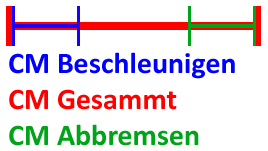
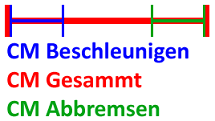
Dokumentation verbessert: ae/oe/ue ersetzt, (Rechtschreib-) Fehler etc. verbessert, Bildgroeßen verbessert / angepasst.

diff --git a/README.md b/README.md
@@ -1,12 +1,12 @@
 # **Blocksystem-OTTO-HAHN-ROBOTS** `v0.1`
 
 
-![Alle Bloecke](Dokumentation/README-Bilder/Alle_Bloecke.png)
+![Alle Blöcke](Dokumentation/README-Bilder/Alle_Bloecke.png)
 
 
-- [Einfuehrung](#einfuehrung)
+- [Einführung](#einführung)
     - [Installation](#installation)
-- [Bloecke](#bloecke)
+- [Blöcke](#blöcke)
     - [Start](#start)
     - [Fahren](#fahren)
     - [Drehen](#drehen)
@@ -18,84 +18,84 @@
     - [Linienverfolger](#linienverfolger)
 - [Beispielprogramme](#beispielprogramme)
 - [Roboterprofile](#roboterprofile)
-    - [Datensaetze](#datensaetze)
+    - [Datensätze](#datensätze)
 - [Auswahlprogramm](#auswahlprogramm)
 
 
-## Einfuehrung
-Dies ist das Blocksystem der OTTO-HAHN-ROBOTS zur Programmierung des EV3 Roboters fuer die First-Lego-League. Dieses Blocksystem fuegt weitere Bloecke zu EV3-Projekten hinzu, um die programmierung zu erleichtern, den Zeitaufwand zu minimieren, die Genauigkeit des Roboters zu verbessern und um komplizierte Programmelememente fuer alle einfach nutzbar zu machen. Dabei sind diese Bloecke nicht komplett "neu", sondern lediglich schon "vorprogrammierte" Programmelemente, die nun einfach genutzt werden koennen. In dieser Dokumentation ist alles Wichtige zu finden, was benoetigt wird um die Bloecke nutzen zu koennen. 
+## Einführung
+Dies ist das Blocksystem der OTTO-HAHN-ROBOTS zur Programmierung des EV3-Roboters für die First-Lego-League. Dieses Blocksystem fügt weitere (eigene) Blöcke zu EV3-Projekten hinzu, um die Programmierung zu erleichtern, den Zeitaufwand zu minimieren, die Genauigkeit des Roboters zu verbessern und um komplizierte Programmelememente für alle einfach nutzbar zu machen. Dabei sind diese Blöcke nicht komplett "neu", sondern lediglich schon "vorprogrammierte" Programmelemente, die nun einfach genutzt werden können. In dieser Dokumentation ist alles Wichtige zu finden, was benötigt wird um die Blöcke nutzen zu können. 
 
 
 ### Installation
-Um die Bloecke in seinem Projekt nutzen zu koennen, muessen diese zuerst importiert werden. Dazu sollte als erstes der aktuelle Release des Blocksystems auf der Release-Seite auf GitHub heruntergeladen und entpackt werden. Anschließend wechselt man wieder zurueck auf die EV3-Software und oeffnet den Tab "Projekteigenschaften". Dort wechselt man auf den Tab "Eigene Bloecke" und drueckt ganz unten auf "Importieren". Daraufhin oeffnet sich ein Datei-Browser mit welchen man in sein eben entpacktes Verzeichnis hineinnavigiert und die Datei "Blocksystem_vX.X.X" (anstelle der X wird dort die Nummer des aktuellen Releases stehen). Anschließen drueckt man auf oeffnen und die Bloecke sind im EV3-Projekt vorhanden.
+Um die Blöcke in seinem Projekt nutzen zu können, müssen diese zuerst importiert werden. Dazu sollte als erstes der aktuelle Release des Blocksystems auf der Release-Seite auf GitHub heruntergeladen und entpackt werden. Anschließend wechselt man wieder zurückck auf die EV3-Software und öffnet den Tab "Projekteigenschaften". Dort wechselt man auf den Tab "Eigene Blöcke" und drückt ganz unten auf "Importieren". Daraufhin öffnet sich ein Datei-Browser, mit welchen man in sein eben entpacktes Verzeichnis hineinnavigiert und die Datei "Blocksystem_vX.X.X" (anstelle der X wird dort die Nummer des aktuellen Releases stehen). Anschließend drückt man auf öffnen und die Blöcke sind im EV3-Projekt vorhanden.
 
 
-## Bloecke
-Im Nachfolgenden werden die einzelnen Bloecke des Blocksystems mit ihren Funktionen und ihrer Benutzung, bzw. ihren Parametern, vorgesetellt!
+## Blöcke
+Im Nachfolgenden werden die einzelnen Blöcke des Blocksystems mit ihren Funktionen und ihrer Benutzung, bzw. ihren Parametern, vorgesetellt!
 
 
 ### Start 
 ![Start](Dokumentation/README-Bilder/Block_Start.png)
 
-Dieser Block muss am Anfang jeden Programmes gesetzt werden, da hier alle Variablen, welche spaeter benoetigt werden, auf die entsprechenden Werte gesetzt werden. Dies geschieht aufgrund der angegebenen [Roboter id](#roboterprofile)! Außerdem besteht die Moeglichkeit Einzustellen, dass sich der Roboter durch langsames fahren gegen die Bande am Anfang ausrichtet, was sich positiv auf die Genauigkeit beim Starten auswirkt. Anschließend werden alle Motoren zueuckgesetzt.
+Dieser Block muss am Anfang jeden Programmes, in dem die Blöcke des Blocksystems genutzt werden, gesetzt werden, da hier alle Variablen, welche später benötigt werden, auf die entsprechenden Werte gesetzt werden. Dies geschieht aufgrund der angegebenen [Roboter id](#roboterprofile)! Außerdem besteht die Möglichkeit einzustellen, dass sich der Roboter durch langsames fahren gegen die Bande am Anfang ausrichtet, was sich positiv auf die Genauigkeit beim Starten auswirkt. Anschließend werden alle Motoren zurückgesetzt.
 
 | Parameter | Wert | Beschreibung |
 | - | - | - | 
-| Roboter id | [Roboter id](#roboterprofile) | Durch die Roboter id wird der entsprechende Datensatz fuer einen Roboter gewaehlt, dieser wird dann in allen Bloecken des Blocksystems genutzt. Dazu muss der Datensatz eines Roboters im Blocksystem vorhanden sein. Eine Uebersicht dazu gibt es [hier](#roboterprofile)!
-| Ausrichten | numerischer Wert (-1 - 1) | Um die Genauigkeit beim Starten zu erhoehen ist es empfehlenswert, dass der Roboter kurz vorwaerts/rueckwaerts gegen die Wand / den Starter faehrt, so ist sichergestellt, dass der Roboter komplett gerade steht. Mit `-1` faehrt der Roboter kurz rueckwaerts, mit `1` kurz vorwaerts. Bei `0` findet kein Ausrichten statt.
+| Roboter id | [Roboter id](#roboterprofile) | Durch die Roboter id wird der entsprechende Datensatz für einen Roboter gewählt, dieser wird dann in allen Blöcken des Blocksystems genutzt. Dazu muss der Datensatz eines Roboters im Blocksystem vorhanden sein. Eine Uebersicht dazu gibt es [hier](#roboterprofile)!
+| Ausrichten | numerischer Wert (-1 - 1) | Um die Genauigkeit beim Starten zu erhöhen ist es empfehlenswert, dass der Roboter kurz vorwärts/rückwärts gegen die Wand / den Starter fährt. So ist sichergestellt, dass der Roboter komplett gerade steht. Mit `-1` fährt der Roboter kurz rückwärts, mit `1` kurz vorwärts. Bei `0` findet kein Ausrichten statt.
 
 
 ### Fahren
 ![Fahren](Dokumentation/README-Bilder/Block_Fahren.png)
 
- Der Fahren-Block ist nur fuer einfachere, nicht so komplexe Fahrten (wie sie mit dem Block [GeschwindigkeitAendern](#geschwindigkeitaendern) moeglich sind) geeignet, da dieser Block durchgaengig nur in eine Richtung faehrt, und die Richtung nicht waehrend der Fahrt geaendert werden kann. Außerdem ist **dieser Block nicht dafuer ausgelegt auf der Stelle zu drehen**. Dennoch verfuegt der Fahren-Block ueber die Funktion langsam anzufahren und abzubremsen (_dies kann die Genauigkeit stark steigern_), wesshalb er fuer einfache Fahrten mit langsamen Anfahren/Abbremsen perfekt geeignet ist. _Sollten diese Funktion (langsam Anfahren/Abbremsen) nicht benoetigt werden wird emfohlen den Block [CmInUmdrehungen](#cminumdrehungen) in Kombination mit den Standard-EV3-Bloecken zu nutzen, da dies in diesem Falle zu einer besseren Praezision beitragen kann! _ **Auch dieser Block setzt die gefahren Umdrehungen nicht zurueck, die Distanz wird am inneren Motor der Kurve gemessen!**
+ Der Fahren-Block ist nur für einfachere, nicht so komplexe Fahrten (wie sie mit dem Block [GeschwindigkeitAendern](#geschwindigkeitaendern) möglich sind) geeignet, da dieser Block durchgängig nur in eine Richtung/gleichbleibender Kurvenradius fährt, und die Richtung nicht während der Fahrt geändert werden kann. Außerdem ist **dieser Block nicht dafür ausgelegt auf der Stelle zu drehen**. Dennoch verfügt der Fahren-Block über die Funktion langsam anzufahren und abzubremsen (_dies kann die Genauigkeit stark steigern_), wesshalb er für einfache Fahrten mit langsamen Anfahren/Abbremsen perfekt geeignet ist. _Sollten diese Funktion (langsam Anfahren/Abbremsen) nicht benötigt werden, ist es auch möglich den Block [CmInUmdrehungen](#cminumdrehungen) in Kombination mit den Standard-EV3-Blöcken zu nutzen, da dieser Block / diese Blöcke wesentlich einfacher aufgebaut sind!_ **Auch dieser Block setzt die gefahren Umdrehungen nicht zurück, die Distanz wird am inneren Motor der Kurve gemessen!**
 
  ![SkizzeDistanzen](Dokumentation/README-Bilder/Block_Fahren_SkizzeDistanzen.png)
 
 | Parameter | Wert | Beschreibung |
 | - | - | - |
-| Richtung | numerischer Wert (-30 - 30) | Mit diesem Parameter wird festgelegt ob der Roboter gerade `0` faehrt oder eine Kurve fahren soll. Gibt man hier einen negativen Wert an wird eine Linkskurve gefahren, d.h. der linke Motor dreht langsamer (egal ob der Roboter vorwaerts oder rueckwaerts faehrt), gibt man einen positiven Wert an genau andersrum. |
-| CM Beschleunigung | numerischer Wert (0 - ∞) | Hier wird die Distanz angegeben, die der Roboter brauchen soll, bis er die gewuenschte Geschwindigkeit erreicht hat. |
-| Geschwindigkeit | numerischer Wert (-100 - 100) | Mit diesem Wert wird angegeben wie schnell der Roboter Fahren soll. Bei negativen Werten faehrt der Roboter rueckwaerts, bei positiven vorwaerts. _Es ist sinnvoll diese Geschwindigkeit nicht auf das Maximum oder auf das Minimum, wo der Roboter gerade so faehrt, zu stellen, da diese Werte von Motor zu Motor stark variieren koennen, so dass der Roboter folglich sehr ungenau fahren kann._ |
-| CM Gesammt | numerischer Wert (0 -∞) | Dieser Parameter kontrolliert die Distanz, die waehrend des kompletten Fahren-Blocks, inklusive Beschleunigungs- und Abbrems-Distanz, zurueckgelegt werden soll. Daher muss dieser Parameter mindestens genauso groß sein wie Beschleunigungs- und Abbrems-Distanz zusammen. |
-| CM Abbremsen | numerischer Wert (0 - ∞) | Hier wird die Distanz angegeben, die der Roboter brauchen soll, von der Fahrtgeschwindigkeit bis zum Stehen abzubremsen |
+| Richtung | numerischer Wert (-30 - 30) | Mit diesem Parameter wird festgelegt ob der Roboter gerade (`0`) fährt oder eine Kurve fahren soll. Gibt man hier einen negativen Wert an wird eine Linkskurve gefahren, d.h. der linke Motor dreht langsamer (egal ob der Roboter vorwärts oder rückwärts fährt), gibt man einen positiven Wert an genau andersrum. |
+| CM Beschleunigung | numerischer Wert (0 - ∞) | Hier wird die Distanz angegeben, die der Roboter brauchen soll, bis er die gewünschte Geschwindigkeit erreicht hat. |
+| Geschwindigkeit | numerischer Wert (-100 - 100) | Mit diesem Wert wird angegeben wie schnell der Roboter Fahren soll. Bei negativen Werten fährt der Roboter rückwärts, bei positiven vorwärts. _Es ist sinnvoll diese Geschwindigkeit nicht auf das Maximum oder auf das Minimum, wo der Roboter gerade so fährt, zu stellen, da diese Werte von Motor zu Motor stark variieren können, so dass der Roboter folglich sehr ungenau fahren kann._ |
+| CM Gesammt | numerischer Wert (>0 -∞) | Dieser Parameter kontrolliert die Distanz, die während des kompletten Fahren-Blocks, inklusive Beschleunigungs- und Abbrems-Distanz, zurückgelegt werden soll. Daher muss dieser Parameter mindestens genauso groß sein wie Beschleunigungs- und Abbrems-Distanz zusammen. |
+| CM Abbremsen | numerischer Wert (0 - ∞) | Hier wird die Distanz angegeben, die der Roboter brauchen soll, von der Fahrgeschwindigkeit bis zum Stehen abzubremsen. |
 
 
 ### Drehen
 ![Drehen](Dokumentation/README-Bilder/Block_Drehen.png)
 
-Dieser Block ermoeglicht es, dass sich der Roboter entweder auf der Stelle mit beiden Motoren, oder nur mit einem der Motoren dreht. Dabei ist es auch moeglich, dass die Motoren langsam beschleunigen und auch langsam wieder abbremsen, *was die Genauigkeit erhoehen kann*. **ACUTUNG: Im gegensatz zu den meisten anderen Bloecken, setzt dieser Block die Motorumdrehungen am Anfang und am Ende zurueck!!!**
+Dieser Block ermöglicht es, dass sich der Roboter entweder auf der Stelle mit beiden Motoren, oder nur mit einem der Motoren dreht. Dabei ist es auch möglich, dass die Motoren langsam beschleunigen und auch langsam wieder abbremsen, *was die Genauigkeit erhöhen kann*. **ACHTUNG: Im Gegensatz zu den meisten anderen Blöcken, setzt dieser Block die Motorumdrehungen am Anfang und am Ende zurück!!!**
 
 ![SkizzeWinkel](Dokumentation/README-Bilder/Block_Drehen_SkizzeWinkel.png)
 
 | Parameter | Wert | Beschreibung |
 | - | - | - |
-| Linker Motor | numerischer Wert (-1 - 1) | Mit diesem Parameter wird eingestellt in welche Richtung der Roboter, bzw. der linke Motor drehen soll: Gibt man hier `-1` an, dreht der Linke Motor rueckwaerts, bei `1` vorwaerts und bei `0` bleibt er stehen |
+| Linker Motor | numerischer Wert (-1 - 1) | Mit diesem Parameter wird eingestellt in welche Richtung der Roboter, bzw. der linke Motor drehen soll: Gibt man hier `-1` an, dreht der Linke Motor rückwärts, bei `1` vorwärts und bei `0` bleibt er stehen. |
 | Rechter Motor | numerischer Wert (-1 - 1) | Mit diesem Parameter wird, wie auch schon beim Parameter zuvor, die Richtung bestimmt, in die der rechte Motor drehen soll. |
-| Grad Beschleunigen (Winkel) | numerischer Wert (0 - ∞) | Hier wird angegeben wie viel Grad der Roboter sich drehen soll bis er die gewuenschte Geschwindigkeit erreicht hat. Wird hier `0` angegeben startet der Roboter sofort mit der angegebenen Geschwindigkeit und beschleunigt nicht langsam. |
-| Geschwindigkeit | numerischer Wert (-100 - 100) | Durch diesen Parameter wird kontrolliert wie schnell der Roboter sich drehen soll. Wenn sich nur einer der Motoren dreht, dreht der Roboter dementsprechend halb so schnell, als wenn sich beide Motoren drehen. |
-| Grad Abbremsen (Winkel) | numerischer Wert (0 - ∞) | Wenn der Roboter langsam abbremsen soll, kann hier der Winkel angegeben werden, den es dauern soll bis der Roboter von der eingestellten Geschwindigkeit abgebremst hat. Wird hier `0` angegeben bremst der Roboter nicht langsam ab, sondern bleibt sofort stehen. |
-| Winkel Drehen | numerischer Wert (0 - ∞) | Hier wird angegeben um wie viel Grad sich der Roboter insgesamt drehen soll. |
+| Grad Beschleunigen (Winkel) | numerischer Wert (0 - ∞) | Hier wird angegeben wie viel Grad der Roboter sich drehen soll bis er die gewünschte Geschwindigkeit erreicht hat. Wird hier `0` angegeben startet der Roboter sofort mit der angegebenen Geschwindigkeit und beschleunigt nicht langsam. |
+| Geschwindigkeit | numerischer Wert (>0 - 100) | Durch diesen Parameter wird kontrolliert wie schnell der Roboter sich drehen soll. Wenn sich nur einer der Motoren dreht, dreht der Roboter dementsprechend halb so schnell, als wenn sich beide Motoren drehen. |
+| Grad Abbremsen (Winkel) | numerischer Wert (0 - ∞) | Wenn der Roboter langsam abbremsen soll, kann hier der Winkel angegeben werden, den es dauern soll bis der Roboter von der eingestellten Geschwindigkeit vollständig abgebremst hat. Wird hier `0` angegeben bremst der Roboter nicht langsam ab, sondern bleibt sofort stehen. |
+| Winkel Drehen | numerischer Wert (>0 - ∞) | Hier wird angegeben um wie viel Grad sich der Roboter insgesamt drehen soll. Dieser Winkel muss dabei mindest so groß sein wie der Winkel zur Beschleunigung und das Abbremsen zusammen. |
 
 
 ### ZurueckgelegteDistanz
 ![ZurueckgelgteDistanz](Dokumentation/README-Bilder/Block_ZurueckgelegteDistanz.png)
 
-Dieser Block gibt aehnlich wie der Standard-EV3-Block "Motorumdrehung" aus, wie weit sich ein Motor **seit dem letzten zuruecksetzten** gedreht hat, im gegensatz zum Standard-EV3-Block gibt dieser Block jedoch die zurueckgelegte Distanz in cm aus, was die Programmierung deutlich erleichtern kann. 
+Dieser Block gibt ähnlich wie der Standard-EV3-Block "Motorumdrehung" aus, wie weit sich ein Motor **seit dem letzten zurücksetzten** gedreht hat, im gegensatz zum Standard-EV3-Block gibt dieser Block jedoch die zurückgelegte Distanz in CM aus, was die Programmierung deutlich erleichtern kann. 
 
 | Parameter | Wert | Beschreibung |
 | - | - | - |
-| Motor | numerischer Wert (-1 / 1) | Wird hier `-1` angegben wird die zurueckgelegte Distanz am linken (B) Motor gemessen. Falls hier `1` angegeben wird am rechten (C) Motor. |
+| Motor | numerischer Wert (-1 / 1) | Wird hier `-1` angegben wird die zurückgelegte Distanz am linken (B) Motor gemessen. Falls hier `1` angegeben wird am rechten (C) Motor. |
 
 | Ausgabe | Wert | Beschreibung |
 | - | - | - |
-| Distanz in CM | numerischer Wert | Dieser Ausgabewert ist die zurueckgelgte Distanz in CM. Falls der Motor seit dem letzten Zuruecksetzen mehr rueckwaerts als vorwaerts gedreht wurde, ist dieser Wert negativ (falls der Motor umgekehrt eingebaut wurde, wird dies mit beruecksichtigt). Bei positiven Werten genau umgekehrt. | 
+| Distanz in CM | numerischer Wert | Dieser Ausgabewert ist die zurückgelgte Distanz in CM. Falls der Motor seit dem letzten Zurücksetzen mehr rückwärts als vorwärts gedreht wurde, ist dieser Wert negativ (falls der Motor umgekehrt eingebaut wurde, wird dies mit berücksichtigt). Bei positiven Werten genau umgekehrt. | 
 
 
 ### CmInUmdrehungen
 ![CmInUmdrehungen](Dokumentation/README-Bilder/Block_CmInUmdrehungen.png)
 
-Mit diesem Block ist es moeglich eine Distanz von Zentimeter in Umdrehungen fuer den benutzen Roboter zu errechnen. Dies geschieht aufgrund der [Roboter id](#roboterprofile), welche am Start des Programmes als Parameter des [Start-Block](#start) angegeben wird, bzw. aufgrund der hinterlegten Daten. So ist es mit hilfe von diesem Block moeglich auch mit Standard-EV3 Bloecken mit Cm-Angaben zu programmieren!
+Mit diesem Block ist es möglich eine Distanz von Zentimeter in Umdrehungen für den benutzen Roboter zu errechnen. Dies geschieht aufgrund der [Roboter id](#roboterprofile), welche am Start des Programmes als Parameter des [Start-Block](#start) angegeben wird, bzw. aufgrund der hinterlegten Daten. So ist es mithilfe von diesem Block möglich auch mit Standard-EV3 Blöcken mit Cm-Angaben zu programmieren!
 
 | Parameter | Wert | Beschreibung |
 | - | - | - |
@@ -103,78 +103,78 @@ Mit diesem Block ist es moeglich eine Distanz von Zentimeter in Umdrehungen fuer
 
 | Ausgabe | Wert | Beschreibung |
 | - | - | - |
-| Umdrehungen | numerischer Wert | Dieser Wert, der vom Block ausgegeben wird, ist die Anzahl der der Cm umgerechnet in Cm. |
+| Umdrehungen | numerischer Wert | Dieser Wert, der vom Block ausgegeben wird, ist die Anzahl der Umdrehungen, die aus der CM-Zahl errechnet wurde. |
 
 
 ### WartenAufDistanz
 ![WartenAufDistanz](Dokumentation/README-Bilder/Block_WartenAufDistanz.png)
 
-Im Gegensatz zum Block [ZurueckgelgteDistanz](#zurueckgelegtedistanz), der nur die zureuckgelgte Distanz ausgibt, wartet dieser Block darauf das eine gewisse Distanz erreicht wird und haelt das Programm so lange auf. Auch bei diesem Block wird die bis zum Start des Blockes zurueckgelgte **Distanz nicht zurueckgesetzt**, es gibt dennoch zwei verschiedene Modi. Bei einem der Modi wird die Distanz von Beginn des Blockes gemessen (simuliert das die Distanz am Anfang des Blockes zurueckgesetz wird, wird sie jedoch in echt nicht), beim zweiten Modi wird die insgesammte Distanz, also seit dem letzten zuruecksetzen breuecksichtigt. _Mit Nutzung des zuletzt erklaerten Modus, kann die Genauigkeit erheblich gesteigert werden!_
+Im Gegensatz zum Block [ZurueckgelgteDistanz](#zurueckgelegtedistanz), der nur die zureuckgelgte Distanz ausgibt, wartet dieser Block darauf das eine gewisse Distanz erreicht wird und hält das Programm so lange auf. Auch bei diesem Block wird die bis zum Start des Blockes zurückgelgte **Distanz nicht zurückgesetzt**, es gibt dennoch zwei verschiedene Modi. Bei einem der Modi wird die Distanz von Beginn des Blockes gemessen (simuliert das die Distanz am Anfang des Blockes zurückgesetz wird, wird sie jedoch in echt nicht), beim zweiten Modi wird die insgesammte Distanz, also seit dem letzten zurücksetzen berücksichtigt. _Mit Nutzung des zuletzt erklärten Modus, kann die Genauigkeit gesteigert werden, da so verherige ungenauigkeiten evtl. korrigiert werden können und sich die Fehler soo nicht immer weiter auf addieren!_
 
 | Parameter | Wert | Beschreibung |
 | - | - | - |
-| Motor | numerischer Wert (-1 / 1) | Wird hier `-1` angegben wird die zurueckgelegte Distanz am linken (B) Motor gemessen. Falls hier `1` angegeben wird am rechten (C) Motor. |
+| Motor | numerischer Wert (-1 / 1) | Wird hier `-1` angegben wird die zurückgelegte Distanz am linken (B) Motor gemessen. Falls hier `1` angegeben wird am rechten (C) Motor. |
 | Distanz in CM | numerischer Wert | Hier wir die Distanz (in CM) angegeben auf die der Block warten soll. Dabei kann die Zahl positiv oder negativ angegeben werden, jenachdem ob auf negative oder positive werde gewartet werden soll. |
-| Von Beginn des Blocks | logischer Wert | Hier kann ausgewaehlt werden ab welchem der Punkt gemessen werden soll. Steht dieser Wert auf `Falsch` wird die Distanz seit dem letzen zuruecksetzen der Motorumdrehungen beruecksichtigt. Steht dieser Wert auf `Wahr` wird erst ab Beginn des Blocks gemessen, die Motorenumdrehungen werden aber **nicht zurueckgesetzt**. |
+| Von Beginn des Blocks | logischer Wert | Hier kann ausgewählt werden ab welchem der Punkt gemessen werden soll. Steht dieser Wert auf `Falsch` wird die Distanz seit dem letzen zurücksetzen der Motorumdrehungen berücksichtigt. Steht dieser Wert auf `Wahr` wird erst ab Beginn des Blocks gemessen, die Motorenumdrehungen werden aber **nicht zurückgesetzt**. |
 
 
 ### GeschwindigkeitAendern
 ![GeschwindigkeitAendern](Dokumentation/README-Bilder/Block_GeschwindigkeitAendern.png)
 
-Mit diesem Block ist es moeglich die Geschwindigkeiten der beiden Motoren (B und C) langsam zu veraendern. Dabei koennen die Motoren auch unterschiedlich schnell laufen, jedoch **nicht so, dass ein Motor vorwaerts dreht und der andere ruckwaerts** (so wuerde sich der Roboter auf der Stelle drehen). **Außerdem kann die Geschwindigkeit im Laufe der Beschleunigung nicht von einem positiven wert auf einen negativen Wert geaendert werden.** _Des Weiteren ist es Empfehlenswert die Geschwindigkeiten so hoch oder so niedrig zu waehlen das die Differenzen der unterschiedlichen Motoren bei sehr niedriger oder sehr hoher Geschwindigkeit einen nicht so großen Einfluss auf die Genauigkeit des Roboters haben._ Durch ein langsames aendern der Geschwindigkeit steigt die Genauigkeit!
+Mit diesem Block ist es möglich die Geschwindigkeiten der beiden Motoren (B und C) langsam zu verändern. Dabei können die Motoren auch unterschiedlich schnell laufen, jedoch **nicht so, dass ein Motor vorwärts dreht und der andere ruckwärts** (so würde sich der Roboter auf der Stelle drehen). **Außerdem kann die Geschwindigkeit im Laufe der Beschleunigung nicht von einem positiven wert auf einen negativen Wert geändert werden.** _Des Weiteren ist es Empfehlenswert die Geschwindigkeiten so hoch oder so niedrig zu wählen das die beiden Motoren starke abweichungen abweisen, was bei sehr geringen oder hohen Geschwindigkeiten der Fall ist._ Durch ein langsames ändern der Geschwindigkeit steigt die Genauigkeit!
 
 | Parameter | Wert | Beschreibung |
 | - | - | - |
-| Aktuelle Geschwindigkeit L | numerischer Wert (-100 - 100) | Hier wird die aktuelle Geschwindigkeit, bzw. die Geschwindigkeit, ab der die Beschleunigung beginnen soll fuer den linken (B) Motor angegeben. **ACHTUNG: Der Wert muss so hoch sein, dass der Roboter sich vorwaerts bewegt (also auf keinen Fall `0`).** 
-| Aktuelle Geschwindigkeit R | numerischer Wert (-100 - 100) | Der gleiche Parameter wie der zuvor erklaerte Parameter `Aktuelle Geschwindigkeit L`, nur fuer den rechten (C) Motor.
-| CM | numerischer Wert (0 - ∞) | Dieser Parameter ist fuer die Strecke, die fuer die Beschleunigung / das Abbremsen gebraucht wird verantwortlich. Gemessen wird die Distanz vom Start des Blockes / der Geschwindigkeitsveraenderung bis zum Ende des Blockes / der Geschwindigkeitsveraenderung am Motor welcher in dieser Zeit weniger Strecke zuruecklegt (der Motor, der bei einer Kurve innen ist). **Die Motorumdrehungen werden dabei nicht zurueckgesetzt.**
-| Neue Geschwindigkeit L | numerischer Wert (-100 - 100) | Hier wird die Geschwindigkeit angegeben, die nach der Beschleunigen / dem Abbremsen, nach der zuvor angegebenen Distanz mit dem linken (B) Motor erreicht sein soll. **ACHTUNG: Auch hier muss der Wert so hoch sein, dass der Roboter sich noch immer vorwaerts bewegt (also auf keinen Fall `0`).** 
-| Neue Geschwindigkeit R | numerischer Wert (-100 -100) | Der gleiche Parameter wie der zuvor erklaerte Parameter `Neue Geschwindigkeit L`, nur fuer den rechten (C) Motor.
+| Aktuelle Geschwindigkeit L | numerischer Wert (-100 - 100) | Hier wird die aktuelle Geschwindigkeit, bzw. die Geschwindigkeit, ab der die Beschleunigung beginnen soll für den linken (B) Motor angegeben. **ACHTUNG: Der Wert muss so hoch sein, dass der Roboter sich vorwärts bewegt (also auf keinen Fall `0`).** 
+| Aktuelle Geschwindigkeit R | numerischer Wert (-100 - 100) | Der gleiche Parameter wie der zuvor erklärte Parameter Aktuelle Geschwindigkeit L, nur für den rechten (C) Motor.
+| CM | numerischer Wert (>0 - ∞) | Dieser Parameter ist für die Strecke, die für die Beschleunigung / das Abbremsen gebraucht wird verantwortlich. Gemessen wird die Distanz vom Start des Blockes / der Geschwindigkeitsveränderung bis zum Ende des Blockes / der Geschwindigkeitsveränderung am Motor, welcher in dieser Zeit weniger Strecke zurücklegt (der Motor, der bei einer Kurve innen ist). **Die Motorumdrehungen werden dabei nicht zurückgesetzt.**
+| Neue Geschwindigkeit L | numerischer Wert (-100 - 100) | Hier wird die Geschwindigkeit angegeben, die nach der Beschleunigen / dem Abbremsen, nach der zuvor angegebenen Distanz mit dem linken (B) Motor erreicht sein soll. **ACHTUNG: Auch hier muss der Wert so hoch sein, dass der Roboter sich noch immer vorwärts bewegt (also auf keinen Fall `0`).** 
+| Neue Geschwindigkeit R | numerischer Wert (-100 -100) | Der gleiche Parameter wie der zuvor erklärte Parameter Neue Geschwindigkeit L, nur für den rechten (C) Motor.
 
 
 ### AusrichtenLinie
-_Noch nicht hinzugefuegt!_
+_Noch nicht hinzugefügt!_
 
 
 ### Linienverfolger
-_Noch nicht hinzugefuegt!_
+_Noch nicht hinzugefügt!_
 
 
 ## Beispielprogramme
-_Beispielprogramme_
+_Beispielprogramme noch nicht hinzugefügt!_
 
 
 ## Roboterprofile
 | Roboter id | Roboter / Nutzen | Status |
 | - | - | - |
 | 0 | Rot-Schwarzer-Roboter (Gustav) | Noch nicht erstellt |
-| 99 | Nur zum Entwickeln und Testen der Bloecke, **nicht Nutzen!** |  |
+| 99 | Nur zum Entwickeln und Testen der Blöcke, **nicht Nutzen!** | - |
 
 
-### Datensaetze
-Damit das Blocksystem mit moeglichst allen Robotern funktioniert ist das komplette System variabel programmiert, so muessen nur bestimmte Variablen angepasst werden und das Blocksystem funktioniert auch mit diesem Roboter. Hinter jedem Roboter, welcher zunaechst ueber den "Roboter id"-Parameter des Start Blockes ausgewaehlt wird, steckt ein Datensatz welcher bestimmte Eigenschaften, bzw. Parameter fuer diesen Roboter festlegt. Soll ein neuer Roboter in das Blocksystem eingepflegt werden, muessen zunaechst alle untenstehenden Parameter festgelegt werden und diese dann unter einer neunen Roboter id in den Start Block des Blocksystem eingefuegt werden.
+### Datensätze
+Damit das Blocksystem mit möglichst allen Robotern funktioniert ist das komplette System variabel programmiert, so müssen nur bestimmte Variablen angepasst werden und das Blocksystem funktioniert mit jedem Roboter. Hinter jedem Roboter, welcher zunächst über den "Roboter id"-Parameter des Start Blockes ausgewählt wird, steckt ein Datensatz welcher bestimmte Eigenschaften, bzw. Parameter für diesen Roboter festlegt. Soll ein neuer Roboter in das Blocksystem eingepflegt werden, müssen zunächst alle untenstehenden Parameter festgelegt werden und diese dann unter einer neuen Roboter id in den Start Block des Blocksystem eingefügt werden.
 
 | Variable | Wert | Beschreibung |
 | - | - | - |
-| Alle_MotorenrichtungUmgekehrt | logischer Wert | Falls die Motoren umgekehrt eingebaut wurden, d.h. der Roboter rueckwaerts faehrt wenn die Motoren vorwaerts drehen, muss dieser Wert auf `Wahr` gesetzt werden |
-| Start_AusrichtenGeschwindigkeit | numerischer Wert (0 - 100) | Falls beim Start Block Ausrichten ausgewaehlt wird, fahrt der Roboter langsam vorwaerts, bzw. rueckwaerts um sich an der Wand auszurichten, so dass die Genauigkeit besser ist. Genau diese Geschwindigkeit wird durch diese Variable definiert
-| Start_AusrichtenSekunden | numerischer Wert (0 - ∞) | Falls das Ausrichten beim Start Block, wie zuvor erklaert, ausgewaehlt wird, findet das Ausrichten fuer eine gewisse Anzahl von Sekunden statt, diese Dauer wird hier definiert |
-| Start_AusrichtenSekundenWarten | numerischer Wert (0 - ∞) | Nach dem zuvor erklaerten Ausrichten wartet der Roboter eine gewisse Dauer damit die Motoren nicht direkt in die andere Richtung drehen (dies traegt zur Genauigkeit bei). Diese Dauer wird mit dieser Variable definiert |
-| ZurueckgelgteDistanz_CmInGrad | numerischer Wert (0 - ∞) | Da das Blocksystem wegen der intuitiveren Benutzung mit Distanzen in CM arbeitet wird hier definiert, wie viel Grad ein Motor drehen muss, damit der Roboter einen Zentimeter zurueckgelegt hat|
-|Fahren_StartGeschwindigkeit | numerischer Wert (0 - 100) | Wenn der Roboter mithilfe des Blocks [Fahren](#fahren) langsam anfahren soll, beginnen sich die Motoren anfangs mit dem hier angegeben Wert. Daher sollte dieser Wert so groß gewaehlt werden, dass beide Motoren sich zuverlaessig und gleichmaeßig drehen, aber auch nicht zu schnell, damit der Roboter noch moeglichst lange Beschleunigen kann |
-| Fahren_AbbremsenProzentEndgeschwindigkeit | numerischer Wert (0 - 100) | Wenn der Roboter mithilfe des Fahren-Blocks am Ende langsam abbremst wird das letzte Stueck, nachdem der Roboter langsam abgebremst hat, konstant mit einer langsamen Geschwindigkeit absolviert bis die gewuenschte Distanz entgueltig erreicht wird. Dies traegt zur Genauigkeit bei, ohne dieses langsame Fahren am Ende ist ein genaues Stoppen gar nicht moeglich! Mit diesem Parameter wird festgelgt wie viel Prozent der Strecke der Abbrems-Distanz dafuer verwendet wird, mit der Endgeschwindigkeit zu fahren.|
-| Fahren_AbbremsenMaxDistanz Endgeschwindigkeit | numerischer Wert (0 - ∞) | Mit diesem Parameter wird kontrolliert was die maximale Distanz ist, die mit der zuvor erlaeutertern Endgeschwindigkeit gefahren wird. Sollte die prozentual errechnete Strecke, welche mit dem zuvor erklaerten Parameter errechnet wird, groeßer sein als die hier angegebene Strecke, wird die prozentual errechnete Strecke nicht beachtet und die hier angegebene Strecke wird genutzt. |
-| Fahren_EndGeschwindigkeit | numerischer Wert (0 - 100) | Mit diesem Parameter wird die End-Geschwindigkeit gesteuert, di am Ende des Abbremsens genutzt wird (wie in den beiden Parameter zuvor erklaert). Diese Geschwindigkeit sollte daher moeglichst gering gewaehlt werden, damit der Roboter moeglichst praezise anhalten kann. Sie sollte aber keinesfalls so niedrig gewaehlt werden, dass die Motoren sehr ungenau oder ungleichmaeßig drehen. |
-| Drehen_StartGeschwindigkeit | numerischer Wert (0 - 100) | Mit diesem Parameter wird eingestellt mit welcher Geschwindigkeit der Roboter beim [Drehen Block](#drehen) anfahren soll. Der Wert sollte so gering wie moeglich gewaehlt werden, damit das Anfahren moeglichst genau ist, aber auch nicht so gering, dass die Motoren sehr ungenau oder ungleichmaeßig drehen. |
-| Drehen_GradFuer360Drehung | numerischer Wert (0 - ∞) | Hier wird angegeben wie viel Grad sich ein Motor drehen muss bis sich der Roboter um 360 Grad gedreht hat, wenn sich beide Motoren gleichzeitig drehen. |
-| Drehen_AbbremsenProzentEndgeschwindigkeit | numerischer Wert (0 - 100) | Mit diesem Wert wird eingestellt wie viel Prozent der Strecke des Abbremsens mit der eingestellten Endgeschwindigkeit zurueckgelegt werden soll. |
-| Drehen_MaxWinkelEndgeschwindigkeit | numerischer Wert (0 - ∞) | Hier wird angegeben wie viel Grad (Winkel) maximal mit der Endgeschwindigkeit zurueckgelegt werden sollen. Ist der Winkel, der durch den zuvor angegebenen Prozentsatz errechnet wird groeßer als dieser Wert, wird dieser Wert genutzt. |
-| Drehen_Endgeschwindigkeit | numerischer Wert (0 - 100) | Mit diesem Parameter wird eingestellt mit welcher Geschwindigkeit der Motor/die Motoren am Ende des Abbremsens drehen, bis der richtige Winkel erreicht ist. |
-| Drehen_SchwelleMotorKorrektion | numerischer Wert (0 - ∞) | Drehen beim Drehen Block beide Motoren wird nur an einem der Motoren aktiv gemessen und der andere Motor laeuft jeweils mit derselben Geschwindigkeit (in die andere Richtung) einfach mit. Da die Motoren jedoch leicht unterschiedlich drehen koennen kann es so zu Ungenauigkeiten kommen. Um diesem entgegenzuwirken werden auch die Motorumdrehungen des anderen Motors gemessen und mit denen des anderen Motors verglichen. Sollten die Motorenstaende um eine gewisse Gradzahl, die mit diesem Parameter eingestellt wird, unterschiedlich sein wird gegengesteuert. |
-| Drehen_GeschwindigkeitMotorKorrektion | numerischer Wert (0 - 100) | Sollte die in dem zuvor erlaeuterte Schwelle ueberschritten werden wird der entsprechende Motor um eine gewisse Geschwindigkeit verschnellert oder verlangsamt. Diese Geschwindigkeit kann hier eingestellt werden. |
+| Alle_MotorenrichtungUmgekehrt | logischer Wert | Falls die Motoren umgekehrt eingebaut wurden, d.h. der Roboter rückwärts fährt wenn die Motoren vorwärts drehen, muss dieser Wert auf `Wahr` gesetzt werden. |
+| [Start](#start)_AusrichtenGeschwindigkeit | numerischer Wert (>0 - 100) | Falls beim Start Block Ausrichten ausgewählt wird, fährt der Roboter langsam vorwärts, bzw. rückwärts um sich an der Wand auszurichten, so dass die Genauigkeit besser ist. Genau diese Geschwindigkeit wird durch diese Variable definiert. |
+| [Start](#start)_AusrichtenSekunden | numerischer Wert (>0 - ∞) | Falls das Ausrichten beim Start Block, wie zuvor erklärt, ausgewählt wird, findet das Ausrichten für eine gewisse Anzahl von Sekunden statt, diese Dauer wird hier definiert. |
+| [Start](#start)_AusrichtenSekundenWarten | numerischer Wert (0 - ∞) | Nach dem zuvor erklärten Ausrichten wartet der Roboter eine gewisse Dauer damit die Motoren nicht direkt in die andere Richtung drehen (dies trägt zur Genauigkeit bei). Diese Dauer wird mit dieser Variable definiert. |
+| [ZurueckgelegteDistanz](#zurueckgelegtedistanz)_CmInGrad | numerischer Wert (>0 - ∞) | Da das Blocksystem wegen der intuitiveren Benutzung mit Distanzen in CM arbeitet wird hier definiert, wie viel Grad ein Motor drehen muss, damit der Roboter einen Zentimeter zurückgelegt hat. |
+| [Fahren](#fahren)_StartGeschwindigkeit | numerischer Wert (>0 - 100) | Wenn der Roboter mithilfe des Blocks [Fahren](#fahren) langsam anfahren soll, beginnen sich die Motoren anfangs mit dem hier angegeben Wert. Daher sollte dieser Wert so groß gewählt werden, dass beide Motoren sich zuverlässig und gleichmäßig drehen, aber auch nicht zu schnell, damit der Roboter noch möglichst lange beschleunigen kann. |
+| [Fahren](#fahren)_AbbremsenProzentEndgeschwindigkeit | numerischer Wert (0 - 100) | Wenn der Roboter mithilfe des Fahren-Blocks am Ende langsam abbremst wird das letzte Stück, nachdem der Roboter langsam abgebremst hat, konstant mit einer langsamen Geschwindigkeit absolviert bis die gewünschte Distanz entgültig erreicht wird. Dies trägt zur Genauigkeit bei, ohne dieses langsame Fahren am Ende ist ein genaues Stoppen gar nicht möglich! Mit diesem Parameter wird festgelgt wie viel Prozent der Strecke der Abbrems-Distanz dafür verwendet wird, mit der Endgeschwindigkeit zu fahren.|
+| [Fahren](#fahren)_AbbremsenMaxDistanz Endgeschwindigkeit | numerischer Wert (0 - ∞) | Mit diesem Parameter wird kontrolliert, was die maximale Distanz ist, die mit der zuvor erläutertern Endgeschwindigkeit gefahren wird. Sollte die prozentual errechnete Strecke, welche mit dem zuvor erklärten Parameter errechnet wird, größer sein als die hier angegebene Strecke, wird die prozentual errechnete Strecke nicht beachtet und die hier angegebene Strecke wird genutzt. |
+| [Fahren](#fahren)_EndGeschwindigkeit | numerischer Wert (>0 - 100) | Mit diesem Parameter wird die End-Geschwindigkeit gesteuert, die am Ende des Abbremsens genutzt wird (wie in den beiden Parameter zuvor erklärt). Diese Geschwindigkeit sollte daher möglichst gering gewählt werden, damit der Roboter möglichst präzise anhalten kann. Sie sollte aber keinesfalls so niedrig gewählt werden, dass die Motoren sehr ungenau oder ungleichmäßig drehen. |
+| [Drehen](#drehen)_StartGeschwindigkeit | numerischer Wert (>0 - 100) | Mit diesem Parameter wird eingestellt mit welcher Geschwindigkeit der Roboter beim [Drehen Block](#drehen) anfahren soll. Der Wert sollte so gering wie möglich gewählt werden, damit das Anfahren möglichst genau ist, aber auch nicht so gering, dass die Motoren sehr ungenau oder ungleichmäßig drehen. |
+| [Drehen](#drehen)_GradFür360Drehung | numerischer Wert (>0 - ∞) | Hier wird angegeben wie viel Grad sich ein Motor drehen muss, bis sich der Roboter um 360 Grad gedreht hat, wenn sich beide Motoren gleichzeitig drehen. |
+| [Drehen](#drehen)_AbbremsenProzentEndgeschwindigkeit | numerischer Wert (0 - 100) | Mit diesem Wert wird eingestellt wie viel Prozent der Strecke des Abbremsens mit der eingestellten Endgeschwindigkeit zurückgelegt werden soll. |
+| [Drehen](#drehen)_MaxWinkelEndgeschwindigkeit | numerischer Wert (0 - ∞) | Hier wird angegeben wie viel Grad (Winkel) maximal mit der Endgeschwindigkeit zurückgelegt werden sollen. Ist der Winkel, der durch den zuvor angegebenen Prozentsatz errechnet wird größer als dieser Wert, wird dieser Wert genutzt. |
+| [Drehen](#drehen)_Endgeschwindigkeit | numerischer Wert (>0 - 100) | Mit diesem Parameter wird eingestellt mit welcher Geschwindigkeit der Motor/die Motoren am Ende des Abbremsens drehen, bis der richtige Winkel erreicht ist. |
+| [Drehen](#drehen)_SchwelleMotorKorrektion | numerischer Wert (>0 - ∞) | Drehen beim Drehen Block beide Motoren wird nur an einem der Motoren aktiv gemessen und der andere Motor läuft jeweils mit derselben Geschwindigkeit (in die andere Richtung) einfach mit. Da die Motoren jedoch leicht unterschiedlich drehen können kann es so zu Ungenauigkeiten kommen. Um diesem entgegenzuwirken werden auch die Motorumdrehungen des anderen Motors gemessen und mit denen des "richtigen" Motors verglichen. Sollten die Motorenstände um eine gewisse Gradzahl, die mit diesem Parameter eingestellt wird, unterschiedlich sein wird gegengesteuert. |
+|[Drehen](#drehen)_GeschwindigkeitMotorKorrektion | numerischer Wert (0 - 100) | Sollte die in dem zuvor erläuterte Schwelle überschritten werden wird der entsprechende Motor um eine gewisse Geschwindigkeit verschnellert oder verlangsamt. Diese Geschwindigkeit kann hier eingestellt werden. |
 
 
 ## Auswahlprogramm
 
-_Das Auswahlprogramm wird erst zu einem spaeteren Zeitpunkt hinzugefuegt werden!_
+_Das Auswahlprogramm wird erst zu einem späteren Zeitpunkt hinzugefügt werden!_
 
